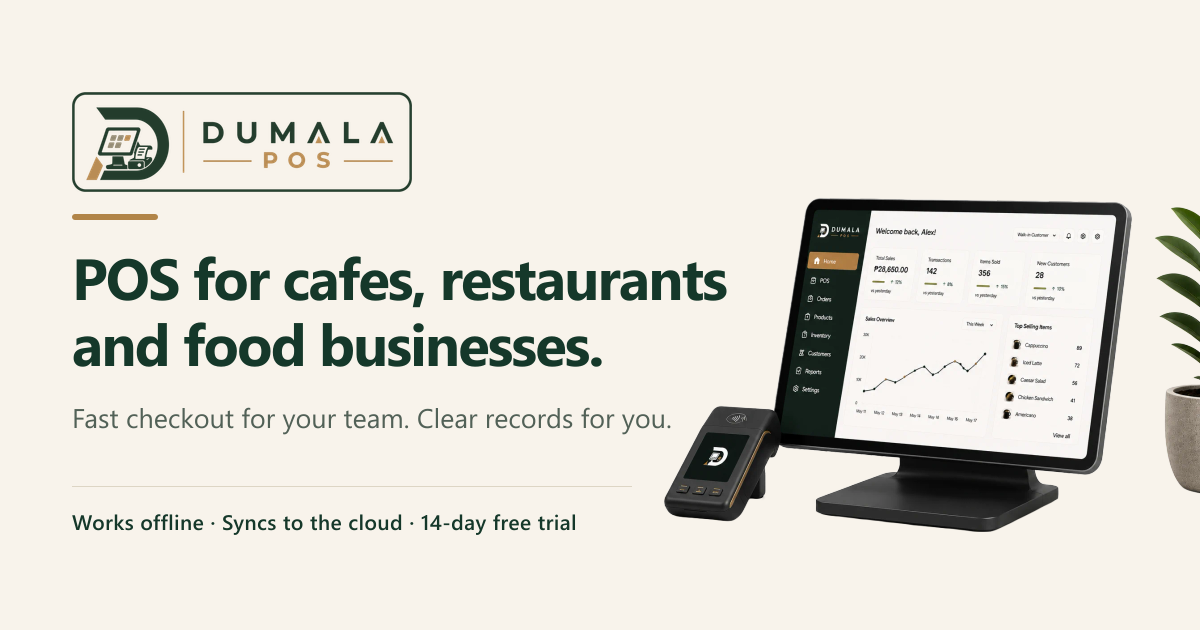
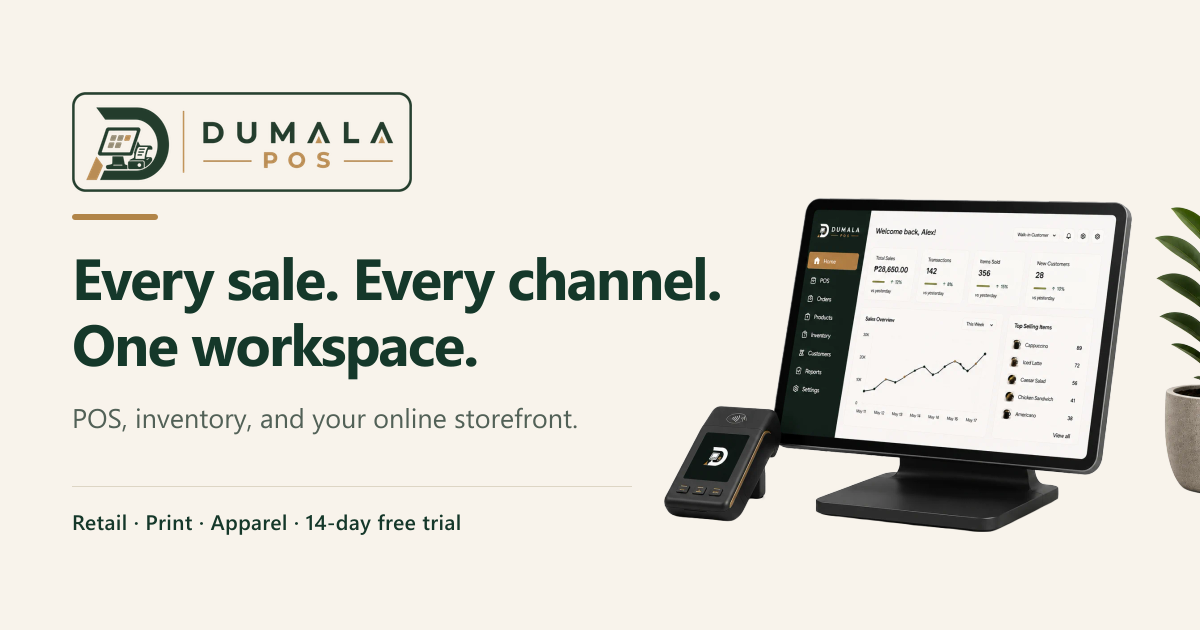
feat(marketing): broaden POS homepage positioning

Changed region(s): [[0.0617, 0.3921, 0.6167, 0.6032], [0.0617, 0.6333, 0.555, 0.6937], [0.0617, 0.8143, 0.4933, 0.8444]]

diff --git a/src/app/page.tsx b/src/app/page.tsx
@@ -1,4 +1,5 @@
 import "./LandingPage.css";
+import "./LandingVisibility.css";
 import type { Metadata } from "next";
 import { headers } from "next/headers";
 import Image from "next/image";
@@ -17,9 +18,9 @@ import { absoluteUrl, siteUrl } from "@/lib/site-url";
 import { POS_THEME_OPTIONS } from "@/lib/pos-theme";
 import { buildBranchPricingCopy, PRICING_INCLUDES } from "@/lib/pricing-content";
 
-const LANDING_TITLE = "POS for Cafes, Restaurants & Food Businesses | Dumala POS";
+const LANDING_TITLE = "POS, Inventory & Online Store for Your Business | Dumala POS";
 const LANDING_DESCRIPTION =
-  "An offline-first POS, online menu, and owner workspace for Philippine cafes, restaurants, coffee shops, bakeshops, and other counter-service businesses.";
+  "Manage sales, inventory, your team, and online orders in one workspace. Dumala POS is built for Philippine retail, printing, apparel, and food businesses.";
 
 export const metadata: Metadata = {
   // `absolute` opts out of the root layout's "%s | Dumala POS" template, which
@@ -61,7 +62,7 @@ const featureCards: Array<{
   },
   {
     icon: "bolt",
-    title: "Offline-first, cloud-ready",
+    title: "Ready for your working day",
     description: "The counter keeps working without internet, then syncs to the cloud whenever a connection is available.",
     points: ["Sale saves on the device first", "Background cloud sync", "Install on tablet or desktop"],
   },
@@ -70,10 +71,10 @@ const featureCards: Array<{
 const onlineMenuFeatures = [
   {
     number: "01",
-    title: "A menu customers can use anywhere",
+    title: "A catalog customers can browse anywhere",
     description:
-      "Give customers a fast, mobile-first way to browse categories, search products, build a cart, and see the menu your branch is actually serving.",
-    detail: "Public mobile menu",
+      "Give customers a fast, mobile-first way to browse categories, search products, build a cart, and see the products available at your branch.",
+    detail: "Mobile product catalog",
   },
   {
     number: "02",
@@ -86,7 +87,7 @@ const onlineMenuFeatures = [
     number: "03",
     title: "A shareable address for every branch",
     description:
-      "Publish a public menu link, share it as a QR code, or give each branch a custom address that is easy to say, print, and remember.",
+      "Publish an online storefront link, share it as a QR code, or give each branch a custom address that is easy to say, print, and remember.",
     detail: "Links and custom subdomains",
   },
 ];
@@ -101,7 +102,7 @@ const detailPanels: Array<{
     mark: "01",
     title: "A counter that keeps service moving",
     description:
-      "The sell screen puts your most-used menu items first, with large targets for quick taps. Weight items open a keypad; everything else stays easy to reach when the line is moving.",
+      "The sell screen puts your most-used products first, with large targets for quick taps. Weight items open a keypad; everything else stays easy to reach when the line is moving.",
     specs: [
       "Fixed-price and by-weight items on one ticket",
       "Senior and PWD discounts with ID capture",
@@ -156,9 +157,9 @@ const workspaceModules: Array<{
   title: string;
   description: string;
 }> = [
-  { icon: "counter", title: "POS counter", description: "Ring up coffee, meals, pastries, and other orders." },
+  { icon: "counter", title: "POS counter", description: "Sell retail products, printed goods, apparel, and more." },
   { icon: "receipt", title: "Orders", description: "Keep one searchable record of every sale." },
-  { icon: "box", title: "Products", description: "Keep menu items, prices, categories, units, and visibility together." },
+  { icon: "box", title: "Products", description: "Keep products, prices, categories, units, and visibility together." },
   { icon: "layers", title: "Inventory", description: "Track movement and catch low counts earlier." },
   { icon: "user", title: "Customers", description: "Keep a live directory for the people you serve." },
   { icon: "truck", title: "Suppliers", description: "Keep purchasing contacts close to the products they provide." },
@@ -240,7 +241,7 @@ function buildFaqs(premiumPrice: string, annualVariants: BillingVariant[], billi
   {
     question: "What kinds of businesses is Dumala built for?",
     answer:
-      "Dumala is designed for owner-led cafes, restaurants, coffee shops, bakeshops, takeout counters, and other food businesses. It is especially well suited to counter-service teams that need fast checkout, clear stock and cash records, and a practical view of the business behind each sale.",
+      "Dumala brings checkout, inventory, and online ordering together for businesses that sell products: retail shops, print shops, shirt and heat-press sellers, and food businesses. Print and apparel businesses can list their finished products and services in the catalog; dedicated artwork approval, production scheduling, and manufacturing workflows are not currently included.",
   },
   {
     question: "What does it cost after the trial?",
@@ -255,7 +256,7 @@ function buildFaqs(premiumPrice: string, annualVariants: BillingVariant[], billi
   {
     question: "Does it keep working when the internet drops?",
     answer:
-      "Yes, within clear limits. Cached products and sales stay usable on the device, and queued sales sync when the connection returns. Shift controls, cloud reports, catalog refreshes, online menu orders, and live customer tracking need a connection.",
+      "Yes, within clear limits. Cached products and sales stay usable on the device, and queued sales sync when the connection returns. Shift controls, cloud reports, catalog refreshes, online orders, and live customer tracking need a connection.",
   },
   {
     question: "Can I run more than one branch?",
@@ -263,9 +264,9 @@ function buildFaqs(premiumPrice: string, annualVariants: BillingVariant[], billi
       `Yes. ${branchPricing.summary} ${branchPricing.example} Each branch keeps its own catalog, settings, printer, and staff, and owners get a consolidated view across all of them.`,
   },
   {
-    question: "Can customers order from the menu online?",
+    question: "Can customers browse and order online?",
     answer:
-      "Yes. Each branch can publish a mobile-first menu at a shareable link or custom address such as morning-ritual.dumala.store. Customers can browse the available menu, choose pickup or an enabled delivery option, schedule an order ahead, and receive an order number with queue and ETA updates.",
+      "Yes. Each branch can publish a mobile-first storefront at a shareable link or custom address such as studio-supply.dumala.store. Customers can browse the available products, choose pickup or an enabled delivery option, schedule an order ahead, and receive an order number with queue and ETA updates.",
   },
   {
     question: "Which receipt printers are supported?",
@@ -280,7 +281,7 @@ function buildFaqs(premiumPrice: string, annualVariants: BillingVariant[], billi
   {
     question: "What do I need to get started?",
     answer:
-      "An owner account and your first branch. Most businesses can create the account, add their first location, and start setting up the menu in a few minutes. Your team gets their own logins through a branch access link later.",
+      "An owner account and your first branch. Most businesses can create the account, add their first location, and start setting up the catalog in a few minutes. Your team gets their own logins through a branch access link later.",
   },
   {
     question: "Do I have to install anything?",
@@ -329,7 +330,7 @@ function buildStructuredData(faqs: Array<{ question: string; answer: string }>, 
         url: origin,
         logo: absoluteUrl("/logo.png"),
         description:
-          "Dumala POS builds point-of-sale, online menu, and back-office software for Philippine cafes, restaurants, bakeshops, and other counter-service food businesses.",
+          "Dumala POS builds point-of-sale, inventory, online storefront, and back-office software for Philippine retail, printing, apparel, and food businesses.",
         areaServed: { "@type": "Country", name: "Philippines" },
       },
       {
@@ -342,7 +343,7 @@ function buildStructuredData(faqs: Array<{ question: string; answer: string }>, 
         operatingSystem: "Web browser (Android, iOS, Windows, macOS)",
         url: origin,
         description:
-          "An offline-first point-of-sale, online menu, and owner workspace for Philippine cafes, restaurants, coffee shops, and bakeshops. Sales are written to the device first and sync to the cloud when a connection is available.",
+          "A connected point-of-sale, inventory, online storefront, and business workspace for Philippine retailers, print shops, apparel sellers, and food businesses.",
         publisher: { "@id": organizationId },
         offers: {
           "@type": "Offer",
@@ -369,7 +370,7 @@ const marqueeItems = [
   `${POS_THEME_OPTIONS.length} themes today`,
   "More themes on the way",
   "Regular updates & support",
-  "Offline-first by default",
+  "POS, inventory & online storefront",
   "Cloud sync when online",
   "Setup in a few minutes",
   "Easy tablet install",
@@ -709,17 +710,17 @@ export default async function LandingPage() {
               style={{ "--lp-delay": "60ms" } as React.CSSProperties}
             >
               <span className="lp-dot-pulse h-1.5 w-1.5 rounded-full bg-[#d1a05b]" />
-              Offline-first POS for Philippine food businesses
+              POS, inventory & online selling for your business
             </p>
 
             <h1
               className="lp-in mt-7 max-w-[560px] text-[clamp(3.1rem,6vw,5.9rem)] font-black leading-[0.94] tracking-[-0.065em] text-[#102d21]"
               style={{ "--lp-delay": "160ms" } as React.CSSProperties}
             >
-              Offline-first POS
+              One POS.
               <br />
               <span className="relative inline-block text-[#b18448]">
-                for Philippine food businesses.
+                More possibilities.
                 <svg
                   aria-hidden="true"
                   viewBox="0 0 300 14"
@@ -737,8 +738,7 @@ export default async function LandingPage() {
               className="lp-in mt-7 max-w-[490px] text-base leading-7 text-[#526157] sm:text-lg sm:leading-8"
               style={{ "--lp-delay": "260ms" } as React.CSSProperties}
             >
-              Fast checkout for your team. Clear records for you. Dumala brings the counter POS, owner workspace, and online
-              menu together in one practical system for Philippine cafes, restaurants, and other food businesses.
+              Fast checkout for your team. Clear records for you. Bring sales, inventory, and an online storefront together for retail shops, print businesses, shirt and heat-press sellers, and more.
             </p>
 
             <div className="lp-in mt-8 flex flex-wrap items-center gap-5" style={{ "--lp-delay": "340ms" } as React.CSSProperties}>
@@ -783,12 +783,12 @@ export default async function LandingPage() {
       <section id="features" className="lp-sec--features scroll-mt-24 py-14 sm:py-20">
         <div className="mx-auto max-w-[1380px] px-6 sm:px-10 lg:px-16">
           <div className="mx-auto max-w-2xl text-center" data-lp-reveal>
-            <p className="text-xs font-bold uppercase tracking-[0.18em] text-[#b18448]">Built for food &amp; beverage owners</p>
+            <p className="text-xs font-bold uppercase tracking-[0.18em] text-[#b18448]">Built for businesses that sell</p>
             <h2 className="mt-3 text-3xl font-black tracking-[-0.05em] text-[#173a2b] sm:text-[2.6rem] sm:leading-[1.05]">
               Run the counter. See the business behind it.
             </h2>
             <p className="mt-4 text-sm leading-6 text-[#657168] sm:text-base">
-              Whether you serve coffee, meals, pastries, or takeout, Dumala brings sales, stock, cash, and team access into one
+              Whether you sell retail goods, printed shirts, custom merchandise, or food, Dumala brings sales, stock, cash, and team access into one
               place without asking the counter to learn a backoffice.
             </p>
           </div>
@@ -829,12 +829,12 @@ export default async function LandingPage() {
         <div className="mx-auto max-w-[1380px] px-6 sm:px-10 lg:px-16">
           <div className="grid items-center gap-10 lg:grid-cols-[minmax(0,0.88fr)_minmax(0,1.12fr)] lg:gap-16">
             <div data-lp-reveal="left">
-              <p className="text-xs font-bold uppercase tracking-[0.18em] text-[#b18448]">Online menu · built into Dumala</p>
+              <p className="text-xs font-bold uppercase tracking-[0.18em] text-[#b18448]">Online storefront · built into Dumala</p>
               <h2 className="mt-3 max-w-xl text-3xl font-black tracking-[-0.05em] text-[#173a2b] sm:text-[2.6rem] sm:leading-[1.05]">
                 Let customers order before they arrive.
               </h2>
               <p className="mt-5 max-w-xl text-sm leading-7 text-[#657168] sm:text-base">
-                Give every branch a mobile-first menu that feels like your storefront. Customers browse, choose a pickup time, and order ahead from a link you can share anywhere.
+                Give every branch a mobile-first storefront. Customers browse your products, choose pickup or enabled delivery, and order from a link you can share anywhere.
               </p>
 
               <div className="mt-6 flex flex-wrap gap-2 text-[10px] font-black uppercase tracking-[0.12em] text-[#657168]">
@@ -847,7 +847,7 @@ export default async function LandingPage() {
                 href="/signup"
                 className="lp-btn mt-7 inline-flex items-center gap-2.5 rounded-xl bg-[#15382a] px-5 py-3.5 text-sm font-bold text-[#fffaf1] shadow-[0_12px_24px_rgba(21,56,42,0.16)] hover:bg-[#0e2a20] focus-visible:outline-2 focus-visible:outline-offset-4 focus-visible:outline-[#bc9657]"
               >
-                Set up your public menu <ArrowIcon />
+                Set up your online storefront <ArrowIcon />
               </Link>
             </div>
 
@@ -1044,7 +1044,7 @@ export default async function LandingPage() {
                 </div>
                 <h3 className="mt-5 text-xl font-black tracking-[-0.03em] text-[#173a2b]">The owner workspace</h3>
                 <p className="mt-3 text-sm leading-6 text-[#68736a]">
-                  Whether you run one location or several café, restaurant, or bakeshop branches, watch the day across every location,
+                  Whether you run one location or several shops, studios, or branches, watch the day across every location,
                   manage the catalog and stock, and review the numbers without standing at the till.
                 </p>
                 <div className="mt-6">
@@ -1163,7 +1163,7 @@ export default async function LandingPage() {
             <p className="mt-5 max-w-xl text-sm leading-7 text-[#cad6ca] sm:text-base">
               A cloud-only POS can make a weak connection the cashier&apos;s problem. Dumala saves the sale on the device first,
               then syncs it when the connection returns. A dead router or slow mobile signal does not have to stop the queue
-              at your cafe, restaurant, coffee shop, or bakeshop.
+              at your shop, studio, or counter.
             </p>
           </div>
 
@@ -1221,7 +1221,7 @@ export default async function LandingPage() {
               </h2>
             </div>
             <p className="max-w-sm text-sm leading-6 text-[#657168]">
-              From a morning coffee rush to weekend takeout, we focus on the work between the first order and the end-of-day
+              From a busy shop counter to online pickups, we focus on the work between the first order and the end-of-day
               count: peso pricing, weighed goods, discounts, printers, and a network that comes and goes.
             </p>
           </div>
@@ -1332,7 +1332,7 @@ export default async function LandingPage() {
               Clear access. Less clutter.
             </h2>
             <p className="mt-4 text-sm leading-6 text-[#657168] sm:text-base">
-              Whether your team is serving coffee, meals, pastries, or takeout, access follows the role and the branch. Cashiers
+              Whether your team sells retail goods, printed products, apparel, or food, access follows the role and the branch. Cashiers
               can focus on customers while managers review their day without asking the owner for every number.
             </p>
           </div>
@@ -1369,7 +1369,7 @@ export default async function LandingPage() {
               Try the full workspace. Choose how you pay.
             </h2>
             <p className="mt-4 text-sm leading-6 text-[#657168] sm:text-base">
-              No tier maze and no feature guessing. Every cafe, restaurant, coffee shop, bakeshop, and other food business gets
+              No tier maze and no feature guessing. Every retail shop, print business, apparel seller, and food business gets
               the same complete product. {annualVariants.length > 0 ? "Choose monthly billing or the annual terms currently enabled in Plans & Pricing." : "Monthly billing is the current public option."}
             </p>
           </div>
@@ -1431,10 +1431,10 @@ export default async function LandingPage() {
               <div className="max-w-2xl">
                 <p className="text-xs font-bold uppercase tracking-[0.16em] text-[#b18448]">Ready when you are</p>
                 <h2 className="mt-3 text-3xl font-black tracking-[-0.045em] text-[#173a2b] sm:text-4xl">
-                  Give your food business a POS that fits.
+                  Give your business a POS that fits.
                 </h2>
                 <p className="mt-3 max-w-xl text-sm leading-6 text-[#657168] sm:text-base">
-                  Start free for 14 days, set up your business in a few minutes, and personalize the POS before your first rush. After that, {annualVariants.length > 0 ? "choose monthly or an available annual term" : "continue with monthly billing"} for the same complete counter POS and owner workspace.
+                  Start free for 14 days, set up your business in a few minutes, and personalize the POS before your first sale. After that, {annualVariants.length > 0 ? "choose monthly or an available annual term" : "continue with monthly billing"} for the same complete counter POS and owner workspace.
                 </p>
               </div>
               <div className="shrink-0">

diff --git a/src/components/landing/LandingFooter.tsx b/src/components/landing/LandingFooter.tsx
@@ -28,8 +28,7 @@ export default function LandingFooter({
               <Image src="/brand-lockup.png" alt="Dumala POS" width={1535} height={451} sizes="160px" className="h-11 w-auto" />
             </Link>
             <p className="mt-4 text-xs leading-5 text-[#708076]">
-              A practical POS and owner workspace for Philippine cafes, restaurants, coffee shops, bakeshops, and other food
-              businesses. Free for 14 days, then
+              Sales, inventory, and online orders in one practical workspace for Philippine shops, studios, and growing businesses. Free for 14 days, then{" "}
               {hasAnnualOptions ? "choose monthly or annual billing" : "continue with monthly billing"} for the same complete product.
             </p>
           </div>
@@ -39,10 +38,10 @@ export default function LandingFooter({
               <p className="font-black uppercase tracking-[0.16em] text-[#173a2b]">Product</p>
               <ul className="mt-3 grid gap-2 text-[#708076]">
                 <li><SectionLink section="features" onLandingPage={onLandingPage} className="lp-navlink hover:text-[#b18448]">Features</SectionLink></li>
-                <li><SectionLink section="online-menu" onLandingPage={onLandingPage} className="lp-navlink hover:text-[#b18448]">Online Menu</SectionLink></li>
+                <li><SectionLink section="online-menu" onLandingPage={onLandingPage} className="lp-navlink hover:text-[#b18448]">Online Store</SectionLink></li>
                 <li><SectionLink section="playground" onLandingPage={onLandingPage} className="lp-navlink hover:text-[#b18448]">Try the POS</SectionLink></li>
                 <li><SectionLink section="interfaces" onLandingPage={onLandingPage} className="lp-navlink hover:text-[#b18448]">Counter POS &amp; dashboard</SectionLink></li>
-                <li><SectionLink section="offline" onLandingPage={onLandingPage} className="lp-navlink hover:text-[#b18448]">Offline first</SectionLink></li>
+                <li><SectionLink section="offline" onLandingPage={onLandingPage} className="lp-navlink hover:text-[#b18448]">Reliable checkout</SectionLink></li>
                 <li><SectionLink section="details" onLandingPage={onLandingPage} className="lp-navlink hover:text-[#b18448]">In detail</SectionLink></li>
                 <li><SectionLink section="workspace" onLandingPage={onLandingPage} className="lp-navlink hover:text-[#b18448]">Workspace</SectionLink></li>
               </ul>

diff --git a/src/components/landing/LandingOnlineMenuDomain.tsx b/src/components/landing/LandingOnlineMenuDomain.tsx
@@ -3,11 +3,11 @@
 import { useEffect, useState } from "react";
 
 const STORE_NAMES = [
-  "morning-ritual",
-  "kusina-norte",
-  "bean-and-batch",
-  "crumb-and-kettle",
-  "the-green-table",
+  "studio-supply",
+  "everyday-goods",
+  "press-and-print",
+  "thread-studio",
+  "corner-market",
   "harbor-house",
 ];
 
@@ -30,7 +30,7 @@ export default function LandingOnlineMenuDomain() {
   return (
     <div aria-hidden="true" className="rounded-[22px] border border-[#d9d2c1] bg-[#fffdf8] p-4 shadow-[0_16px_34px_rgba(23,58,43,0.10)] sm:p-5">
       <div className="flex items-center justify-between gap-3">
-        <span className="text-[10px] font-black uppercase tracking-[0.16em] text-[#173a2b]">Public menu link</span>
+        <span className="text-[10px] font-black uppercase tracking-[0.16em] text-[#173a2b]">Your storefront address</span>
         <span className="inline-flex items-center gap-1.5 rounded-full bg-[#e7efe4] px-2.5 py-1.5 text-[9px] font-black uppercase tracking-[0.12em] text-[#42704d]">
           <span className="h-1.5 w-1.5 rounded-full bg-[#4e7f57]" /> Live
         </span>

diff --git a/src/app/LandingVisibility.css b/src/app/LandingVisibility.css
@@ -1,0 +1,19 @@
+/* Content must remain visible even if hydration or scroll observation is delayed. */
+.lp [data-lp-reveal],
+.lp [data-lp-reveal="left"],
+.lp [data-lp-reveal="right"],
+.lp [data-lp-reveal="scale"] {
+  opacity: 1;
+  transform: none;
+}
+/* Preserve the original hierarchy when a cached utility chunk lacks these rules. */
+.lp .lp-sec--hero h1 {
+  font-size: clamp(3.1rem, 6vw, 5.9rem);
+  line-height: .94;
+  letter-spacing: -.065em;
+}
+.lp .lp-header nav[aria-label="Primary"] { gap: 28px; }
+.lp .lp-header nav[aria-label="Primary"] { gap: clamp(12px, 1.8vw, 28px); }
+.lp .lp-header nav a,
+.lp .lp-header a[href="/signup"],
+.lp .lp-header a[href="/login"] { white-space: nowrap; }

diff --git a/src/components/landing/LandingHeader.tsx b/src/components/landing/LandingHeader.tsx
@@ -11,7 +11,7 @@ import SectionLink from "./SectionLink";
 // and a section link that works on one breaks on the other. See SectionLink.
 const NAV_LINKS: Array<{ section?: string; href?: string; label: string }> = [
   { section: "features", label: "Features" },
-  { section: "online-menu", label: "Online Menu" },
+  { section: "online-menu", label: "Online Store" },
   { section: "playground", label: "Try the POS" },
   { section: "workspace", label: "Workspace" },
   { section: "pricing", label: "Pricing" },

diff --git a/src/lib/page-metadata.ts b/src/lib/page-metadata.ts
@@ -14,7 +14,7 @@ export const SHARE_IMAGE = {
   url: "/share-card.png",
   width: 1200,
   height: 630,
-  alt: 'The Dumala POS owner dashboard on a counter terminal beside a card reader, with the headline "POS for cafes, restaurants and food businesses."',
+  alt: 'The Dumala POS owner dashboard on a counter terminal beside a card reader, with the headline "Every sale. Every channel. One workspace."',
 } as const;
 
 /**

diff --git a/src/app/layout.tsx b/src/app/layout.tsx
@@ -31,7 +31,7 @@ export const metadata: Metadata = {
   description: DESCRIPTION,
   applicationName: "Dumala POS",
   ...socialMetadata({
-    title: "Dumala POS — POS for cafes, restaurants & food businesses",
+    title: "Dumala POS — POS, inventory & online storefront",
     description: DESCRIPTION,
     path: "/",
   }),
